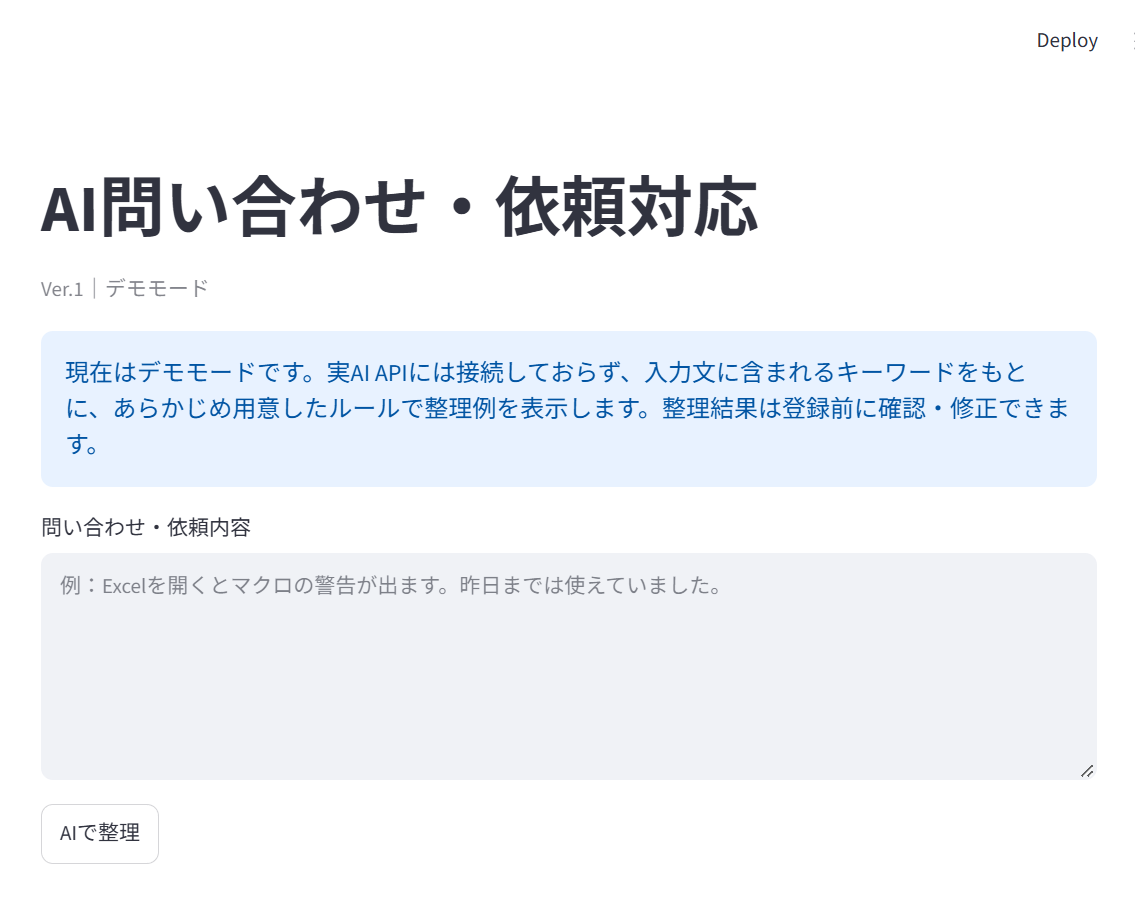
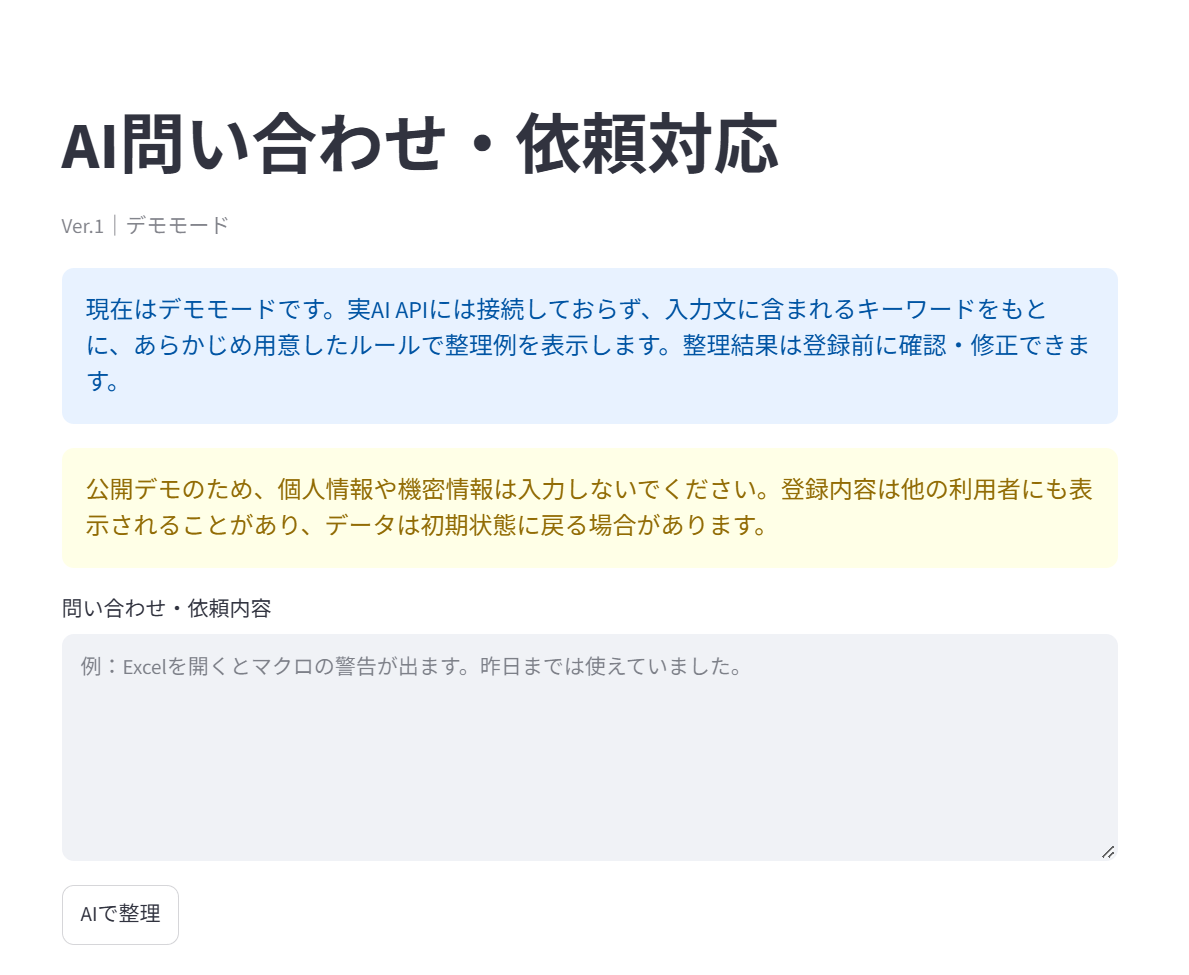
Prepare app for public demo deployment

diff --git a/app.py b/app.py
@@ -36,6 +36,11 @@ if ANALYSIS_MODE == "demo":
         "整理結果は登録前に確認・修正できます。"
     )
 
+st.warning(
+    "公開デモのため、個人情報や機密情報は入力しないでください。"
+    "登録内容は他の利用者にも表示されることがあり、データは初期状態に戻る場合があります。"
+)
+
 
 def make_summary(text, max_length=40):
     # 入力文の最初の行（空行は飛ばす）を、長ければ max_length 文字で切って要約にする
@@ -89,6 +94,37 @@ def analyze_inquiry(text):
     raise ValueError(f"未対応の分析モードです：{ANALYSIS_MODE}")
 
 
+# DBが空のときに登録するポートフォリオ用サンプル（id と created_at は固定値）
+# 並び：id, inquiry_text, category, summary, priority,
+#       missing_info, suggested_action, status, created_at
+SAMPLE_INQUIRIES = [
+    (1, "パスワードをリセットしたい", "アカウント", "パスワードをリセットしたい", "高",
+     "対象のアカウント（ユーザーID）、利用しているシステム名、本人確認の方法",
+     "本人確認のうえ、パスワードリセットの手順を案内する",
+     "完了", "2026-10-01T15:59:22+09:00"),
+    (2, "VPNにつながらない", "ネットワーク / VPN", "VPNにつながらない", "高",
+     "接続場所（自宅・外出先など）、表示されるエラーメッセージ、発生時期",
+     "インターネット自体に接続できるか確認し、VPNクライアントの再起動と再接続を案内する",
+     "対応中", "2026-10-02T09:41:51+09:00"),
+    (3, "プリンターで印刷できない", "プリンター", "プリンターで印刷できない", "中",
+     "プリンター名・設置場所、エラー表示の有無、他の人も印刷できないか",
+     "プリンターの電源・用紙・エラー表示と、印刷待ちのジョブを確認する",
+     "未対応", "2026-10-03T17:52:51+09:00"),
+    (4, "Excelが重い", "Office / Excel", "Excelが重い", "中",
+     "Excelのバージョン、発生時期、具体的な症状やエラーメッセージ、対象ファイル",
+     "特定のファイルだけで起きるかを確認し、原因を切り分ける",
+     "対応中", "2026-10-05T13:16:07+09:00"),
+    (5, "Excelでマクロの警告が出る", "Office / Excel", "Excelでマクロの警告が出る", "中",
+     "Excelのバージョン、警告メッセージの内容、対象ファイル",
+     "マクロ設定や信頼済み場所、ファイルの取得元を確認する",
+     "未対応", "2026-10-05T14:25:47+09:00"),
+    (6, "Outlookでメールを送信できない", "メール / Outlook", "Outlookでメールを送信できない", "中",
+     "表示されるエラーメッセージ、送信できない宛先、発生時期、受信はできるか",
+     "ネットワーク接続とOutlookの送受信状態を確認し、再起動や再送信を試す",
+     "完了", "2026-10-05T14:56:20+09:00"),
+]
+
+
 def init_db():
     # テーブルがなければ作る（あれば何もしない）
     with closing(sqlite3.connect(DB_PATH)) as conn:
@@ -106,6 +142,30 @@ def init_db():
                     created_at       TEXT NOT NULL
                 )
             """)
+
+
+def seed_sample_data():
+    # テーブルが空のときだけサンプルを登録する（1件でもあれば何もしない）
+    with closing(sqlite3.connect(DB_PATH)) as conn:
+        count = conn.execute("SELECT COUNT(*) FROM inquiries").fetchone()[0]
+        if count > 0:
+            return 0
+
+        # id を明示し OR IGNORE を付けて、同時に起動しても二重に登録されないようにする
+        with conn:
+            conn.executemany(
+                """
+                INSERT OR IGNORE INTO inquiries (
+                    id, inquiry_text, category, summary, priority,
+                    missing_info, suggested_action, status, created_at
+                )
+                VALUES (?, ?, ?, ?, ?, ?, ?, ?, ?)
+                """,
+                SAMPLE_INQUIRIES
+            )
+
+    # 登録したサンプルの件数を返す
+    return len(SAMPLE_INQUIRIES)
 
 
 def save_inquiry(inquiry_text, category, summary, priority, missing_info, suggested_action):
@@ -212,6 +272,7 @@ def filter_inquiries(inquiries, status_filter, keyword):
 
 
 init_db()
+seed_sample_data()
 
 
 # AI整理結果を一時的に保存する場所

diff --git a/README.md b/README.md
@@ -112,7 +112,9 @@ pip install -r requirements.txt
 streamlit run app.py
 ```
 
-初回起動時に `helpdesk.db` が自動で作成されます（Git管理の対象外です）。
+初回起動時に `helpdesk.db` が自動で作成されます（Git管理の対象外です）。DBが空の場合は、サンプルの問い合わせ6件が自動で登録されます。
+
+公開デモ環境のデータは永続保存を前提としておらず、再起動などで初期状態に戻ることがあります。登録内容は他の利用者にも表示されるため、個人情報や機密情報は入力しないでください。
 
 ## 今後の拡張予定（Ver.2）
 
